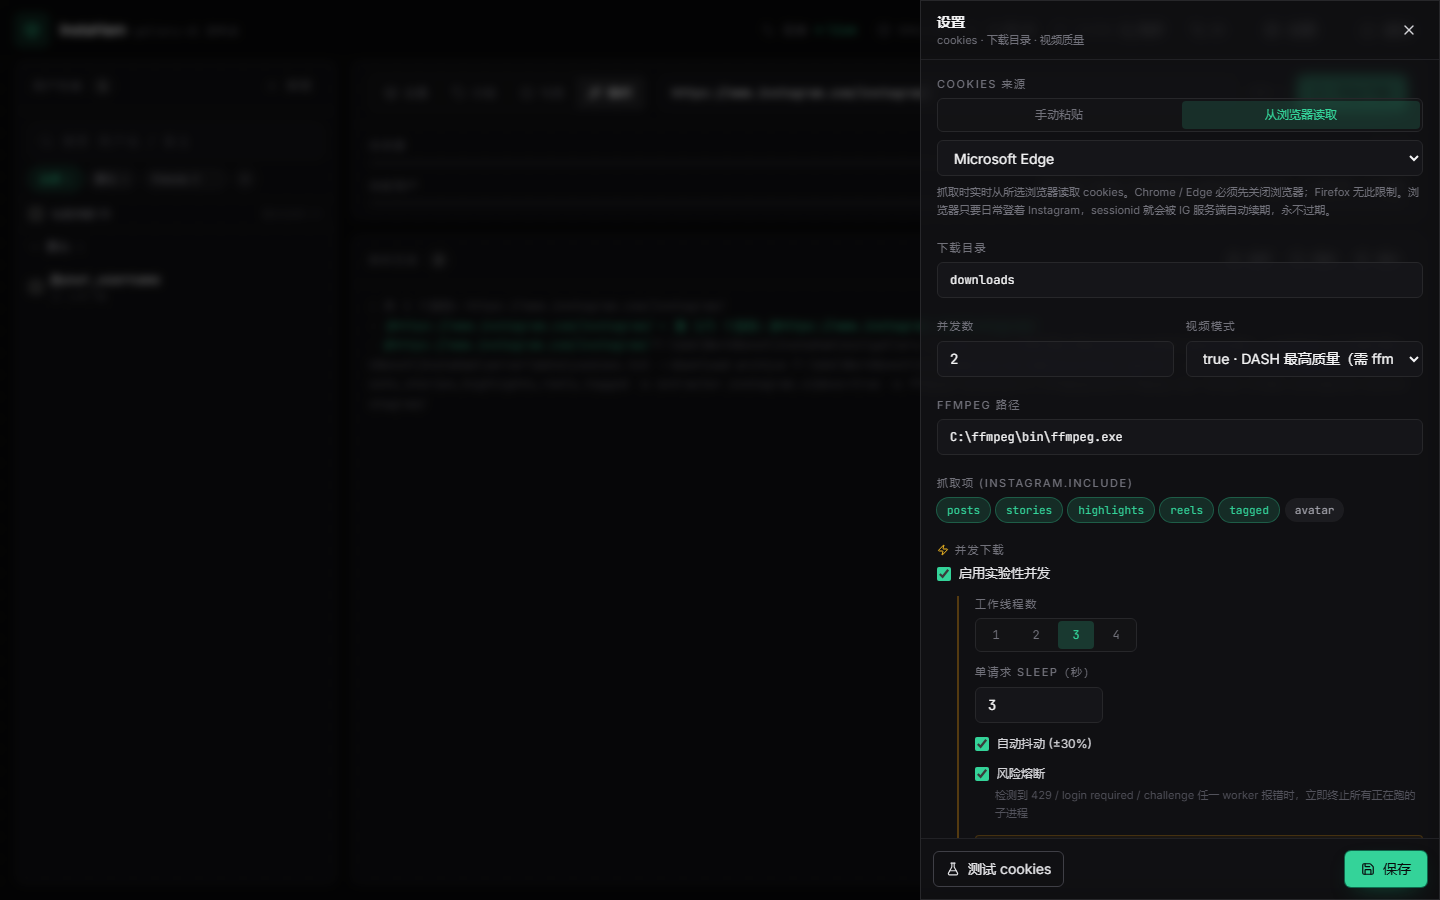
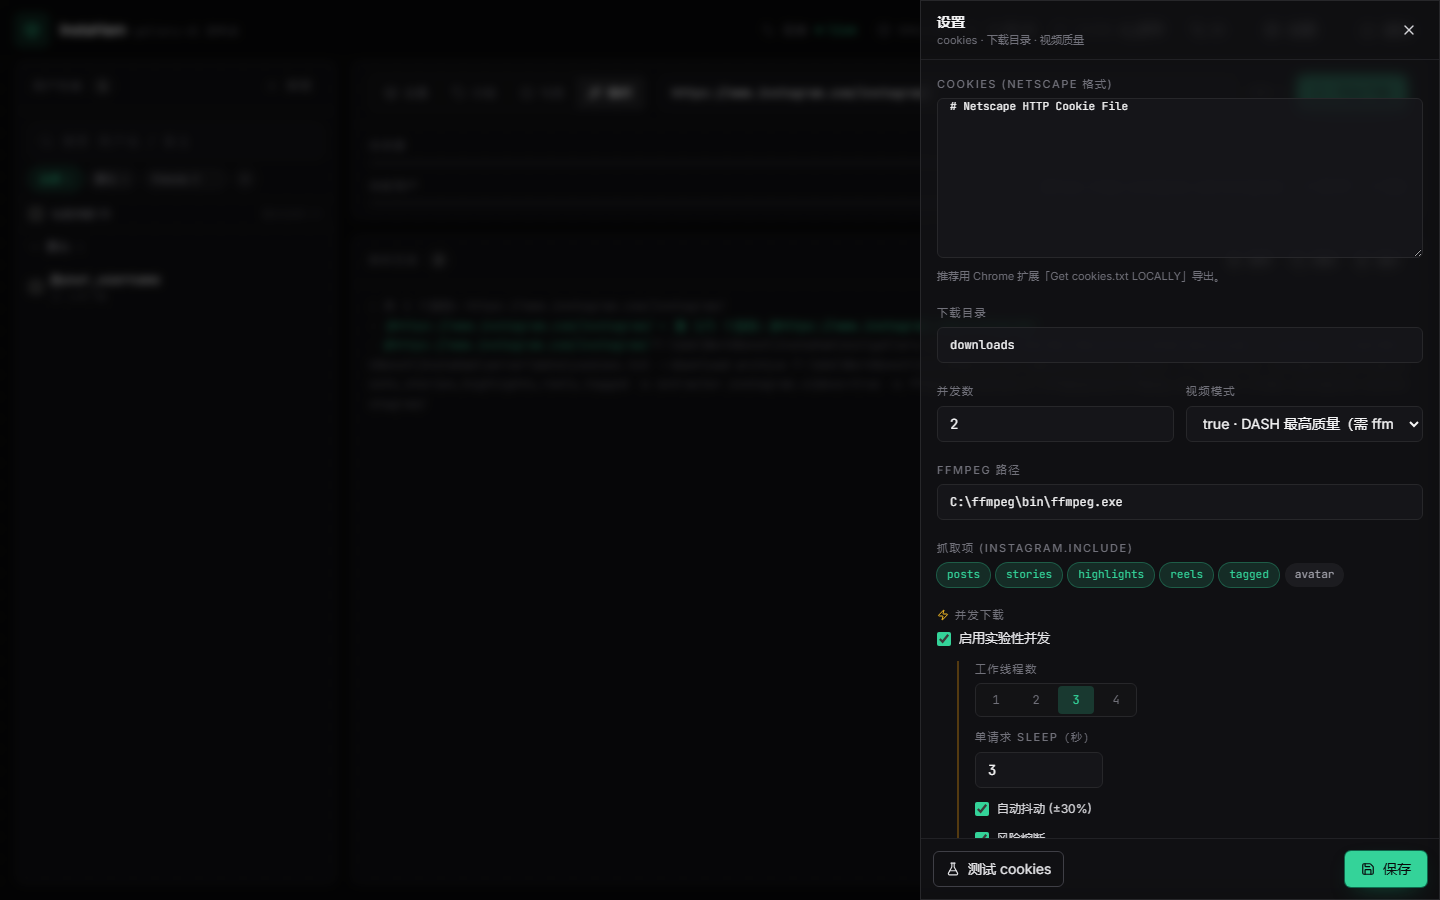
feat(ui): hide cookies-from-browser entry; backend logic kept
The Settings drawer no longer exposes the "Cookies source" segmented
control or the browser dropdown. The cookies textarea is the only
visible path for users.

Backend code stays intact:
- /api/system/browser-status remains usable
- /api/system/recent-events remains usable
- gallery-dl runner still accepts cookies_source = browser
- BrowserCookieGate.tsx and detectBrowser.ts kept as dead code in the
  bundle (no callers, but cheap to leave for future re-enable)

ConfigDrawer.save() now hard-codes cookies_source = 'manual' so any
existing browser-mode config gets normalized on the next save.

Smoke screenshot script also backs up + dummies cookies.txt before
each run (was previously avoided by switching to browser mode in the
UI; now that switch is gone).

diff --git a/web/src/components/ConfigDrawer.tsx b/web/src/components/ConfigDrawer.tsx
@@ -7,16 +7,6 @@ import { api, type Config } from '../lib/api';
 import { useT } from '../lib/i18n';
 import { cn } from '../lib/cn';
 
-const BROWSERS = [
-  { id: 'edge', label: 'Microsoft Edge' },
-  { id: 'chrome', label: 'Google Chrome' },
-  { id: 'firefox', label: 'Firefox' },
-  { id: 'brave', label: 'Brave' },
-  { id: 'vivaldi', label: 'Vivaldi' },
-  { id: 'opera', label: 'Opera' },
-  { id: 'chromium', label: 'Chromium' },
-];
-
 export function ConfigDrawer() {
   const open = useStore((s) => s.drawerOpen);
   const setOpen = useStore((s) => s.setDrawerOpen);
@@ -48,7 +38,8 @@ export function ConfigDrawer() {
         videos_mode: cfg.videos_mode,
         ffmpeg_location: cfg.ffmpeg_location,
         include: cfg.include,
-        cookies_source: cfg.cookies_source,
+        // cookies-from-browser 入口已从 UI 移除；强制 manual，保证保存后下载能直接走文件
+        cookies_source: 'manual',
         cookies_browser: cfg.cookies_browser,
         parallel_enabled: cfg.parallel_enabled,
         parallel_workers: cfg.parallel_workers,
@@ -119,48 +110,17 @@ export function ConfigDrawer() {
             </div>
           ) : (
             <>
-              {/* Cookies 来源切换 */}
-              <Field label={t('cfg.cookieSource')}>
-                <div className="flex gap-1 p-0.5 rounded-md border border-zinc-800 bg-zinc-900/40 mb-2">
-                  <SrcBtn
-                    active={cfg.cookies_source === 'manual'}
-                    onClick={() => setCfg({ ...cfg, cookies_source: 'manual' })}
-                  >
-                    {t('cfg.cookieSrcManual')}
-                  </SrcBtn>
-                  <SrcBtn
-                    active={cfg.cookies_source === 'browser'}
-                    onClick={() => setCfg({ ...cfg, cookies_source: 'browser' })}
-                  >
-                    {t('cfg.cookieSrcBrowser')}
-                  </SrcBtn>
-                </div>
-
-                {cfg.cookies_source === 'manual' ? (
-                  <>
-                    <textarea
-                      value={cookies}
-                      onChange={(e) => setCookies(e.target.value)}
-                      rows={8}
-                      className="input min-h-[160px] font-mono text-[11px] leading-snug"
-                      placeholder={t('cfg.cookiesPlaceholder')}
-                    />
-                    <div className="text-[11px] text-zinc-500 mt-1">{t('cfg.cookiesHint')}</div>
-                  </>
-                ) : (
-                  <div className="space-y-2">
-                    <select
-                      className="input"
-                      value={cfg.cookies_browser}
-                      onChange={(e) => setCfg({ ...cfg, cookies_browser: e.target.value })}
-                    >
-                      {BROWSERS.map((b) => (
-                        <option key={b.id} value={b.id}>{b.label}</option>
-                      ))}
-                    </select>
-                    <div className="text-[11px] text-zinc-500 leading-relaxed">{t('cfg.browserHint')}</div>
-                  </div>
-                )}
+              {/* Cookies (Netscape 格式) — 仅手动模式暴露给用户。
+                  cookies-from-browser 的后端代码仍保留，但此处不暴露入口。 */}
+              <Field label={t('cfg.cookies')}>
+                <textarea
+                  value={cookies}
+                  onChange={(e) => setCookies(e.target.value)}
+                  rows={8}
+                  className="input min-h-[160px] font-mono text-[11px] leading-snug"
+                  placeholder={t('cfg.cookiesPlaceholder')}
+                />
+                <div className="text-[11px] text-zinc-500 mt-1">{t('cfg.cookiesHint')}</div>
               </Field>
 
               <Field label={t('cfg.dir')}>
@@ -367,31 +327,6 @@ export function ConfigDrawer() {
         </div>
       </aside>
     </>
-  );
-}
-
-function SrcBtn({
-  active,
-  onClick,
-  children,
-}: {
-  active: boolean;
-  onClick: () => void;
-  children: React.ReactNode;
-}) {
-  return (
-    <button
-      type="button"
-      onClick={onClick}
-      className={cn(
-        'flex-1 px-3 h-7 rounded text-[12px] transition-colors',
-        active
-          ? 'bg-accent/15 text-accent'
-          : 'text-zinc-500 hover:text-zinc-200',
-      )}
-    >
-      {children}
-    </button>
   );
 }
 

diff --git a/web/src/components/TaskPanel.tsx b/web/src/components/TaskPanel.tsx
@@ -5,8 +5,11 @@ import { openDownloadWs, api, type DownloadRequest } from '../lib/api';
 import { useT, displayGroupName } from '../lib/i18n';
 import { ProgressBars } from './ProgressBars';
 import { LogStream } from './LogStream';
-import { BrowserCookieGate } from './BrowserCookieGate';
 import { cn } from '../lib/cn';
+
+// 注：BrowserCookieGate / detectBrowser / cookies-from-browser 后端逻辑保留，
+// 但本组件不再触发 gate，因为 ConfigDrawer 已移除 cookies source 切换器，
+// cookies_source 永远是 'manual'。
 
 export function TaskPanel() {
   const mode = useStore((s) => s.mode);
@@ -25,9 +28,6 @@ export function TaskPanel() {
 
   const [adhocText, setAdhocText] = useState('');
   const [groupChoice, setGroupChoice] = useState(activeGroup !== 'all' ? activeGroup : groups[0] ?? '默认');
-  const [pendingReq, setPendingReq] = useState<DownloadRequest | null>(null);
-  const [gateBrowser, setGateBrowser] = useState<string | null>(null);
-  const [postStartHint, setPostStartHint] = useState(false);
 
   // mount 时拉一次 server 缓存的事件，重连后能看到关浏览器期间的进度
   const hydrateLogs = useStore((s) => s.hydrateLogs);
@@ -46,32 +46,15 @@ export function TaskPanel() {
       ? selected.size
       : adhocText.split(/\s+/).filter(Boolean).length;
 
-  async function start() {
+  function start() {
     if (running) return;
     const req: DownloadRequest = { mode };
     if (mode === 'selected') req.users = Array.from(selected);
     if (mode === 'group') req.group = groupChoice;
     if (mode === 'adhoc') req.urls = adhocText.split(/\s+/).filter(Boolean);
 
-    // 如果 cookies 来源是浏览器 → 先过 BrowserCookieGate
-    try {
-      const cfg = await api.getConfig();
-      if (cfg.cookies_source === 'browser') {
-        setPendingReq(req);
-        setGateBrowser(cfg.cookies_browser);
-        return; // 等 gate resolve
-      }
-    } catch {
-      // 配置拉失败兜底直接启动
-    }
-
-    actuallyStart(req);
-  }
-
-  function actuallyStart(req: DownloadRequest, fromSelfBrowser = false) {
     const sock = openDownloadWs(req, pushEvent, finishRun);
     startRun(sock);
-    if (fromSelfBrowser) setPostStartHint(true);
   }
 
   function stop() {
@@ -81,7 +64,6 @@ export function TaskPanel() {
 
   return (
     <section className="flex flex-col min-h-0 gap-4">
-      {/* 模式 + 主按钮 */}
       <div className="panel">
         <div className="px-4 py-3 flex items-center gap-3">
           <div className="flex rounded-md border border-zinc-800 p-0.5 bg-zinc-900/40">
@@ -128,54 +110,8 @@ export function TaskPanel() {
       </div>
 
       <LogStream />
-
-      {gateBrowser && (
-        <BrowserCookieGate
-          browser={gateBrowser}
-          onResolve={(proceed) => {
-            const isSelfBrowser = isCurrentBrowser(gateBrowser);
-            setGateBrowser(null);
-            if (proceed && pendingReq) {
-              actuallyStart(pendingReq, isSelfBrowser);
-            }
-            setPendingReq(null);
-          }}
-        />
-      )}
-
-      {postStartHint && (
-        <div className="fixed bottom-4 right-4 z-[55] panel max-w-[400px] p-3 text-[12px] text-amber-400 bg-amber-500/5 border-amber-500/30 animate-fade-in">
-          <div className="flex items-start gap-2">
-            <span className="text-amber-400">⚠</span>
-            <div className="flex-1 leading-relaxed">{t('gate.startedHint')}</div>
-            <button
-              className="text-amber-400 opacity-60 hover:opacity-100"
-              onClick={() => setPostStartHint(false)}
-            >
-              ✕
-            </button>
-          </div>
-        </div>
-      )}
     </section>
   );
-}
-
-function isCurrentBrowser(browser: string): boolean {
-  if (typeof navigator === 'undefined') return false;
-  const ua = navigator.userAgent;
-  const tests: Record<string, RegExp> = {
-    edge: /Edg\//i,
-    firefox: /Firefox\//i,
-    opera: /OPR\/|Opera\//i,
-    vivaldi: /Vivaldi\//i,
-    // chrome 必须排除 Edg / OPR / Vivaldi
-    chrome: /Chrome\//i,
-  };
-  if (browser === 'chrome') {
-    return /Chrome\//i.test(ua) && !/Edg\/|OPR\/|Vivaldi\//i.test(ua);
-  }
-  return tests[browser]?.test(ua) ?? false;
 }
 
 function ModeBtn({

diff --git a/_smoke/smoke_locale_shots.py b/_smoke/smoke_locale_shots.py
@@ -2,7 +2,7 @@
 
 为保护用户隐私：
 - 截图前临时把 server/data/users.json 替换成 dummy（仅含 1 个占位用户）
-- settings 截图时切到「从浏览器读取」模式，避免 cookies textarea 显示真实 cookies
+- 截图前把 server/data/cookies.txt 替换成空 dummy（settings textarea 显示空）
 - 截图后立即恢复
 """
 from __future__ import annotations
@@ -20,6 +20,8 @@ USERS_FILE = ROOT / "server" / "data" / "users.json"
 USERS_BACKUP = Path(__file__).parent / ".users_backup.json"
 CONFIG_FILE = ROOT / "server" / "data" / "config.json"
 CONFIG_BACKUP = Path(__file__).parent / ".config_backup.json"
+COOKIES_FILE = ROOT / "server" / "data" / "cookies.txt"
+COOKIES_BACKUP = Path(__file__).parent / ".cookies_backup.txt"
 
 DEMO_USERS = {
     "groups": ["默认", "friends"],
@@ -34,6 +36,8 @@ DEMO_USERS = {
         }
     ],
 }
+
+DEMO_COOKIES = "# Netscape HTTP Cookie File\n"
 
 
 def use_demo_users() -> None:
@@ -50,8 +54,20 @@ def restore_users() -> None:
         USERS_BACKUP.unlink()
 
 
+def use_demo_cookies() -> None:
+    if COOKIES_FILE.exists():
+        shutil.copy(COOKIES_FILE, COOKIES_BACKUP)
+    COOKIES_FILE.write_text(DEMO_COOKIES, encoding="utf-8")
+
+
+def restore_cookies() -> None:
+    if COOKIES_BACKUP.exists():
+        shutil.copy(COOKIES_BACKUP, COOKIES_FILE)
+        COOKIES_BACKUP.unlink()
+
+
 def force_manual_cookies() -> None:
-    """截图时强制 cookies_source=manual，避免 home 截图触发 BrowserCookieGate。"""
+    """截图时强制 cookies_source=manual + parallel_enabled=False（默认状态）。"""
     if CONFIG_FILE.exists():
         shutil.copy(CONFIG_FILE, CONFIG_BACKUP)
         cfg = json.loads(CONFIG_FILE.read_text(encoding="utf-8"))
@@ -78,6 +94,7 @@ def shoot(locale: str) -> None:
         )
     except Exception:
         pass
+
 
     with sync_playwright() as p:
         b = p.chromium.launch(headless=True)
@@ -111,14 +128,10 @@ def shoot(locale: str) -> None:
         except Exception:
             pass
 
-        # 3) settings 抽屉 — 切到「从浏览器读取」+ 启用并发，展示新功能
+        # 3) settings 抽屉 — 启用并发演示
         settings_label = "设置" if locale == "zh" else "Settings"
         page.locator(f"button:has-text('{settings_label}')").click()
         page.wait_for_timeout(500)
-
-        browser_label = "从浏览器读取" if locale == "zh" else "Read from browser"
-        page.locator(f"button:has-text('{browser_label}')").click()
-        page.wait_for_timeout(200)
 
         enable_label = "启用实验性并发" if locale == "zh" else "Enable experimental parallelism"
         page.locator(f"label:has-text('{enable_label}') input").click()
@@ -135,14 +148,16 @@ def shoot(locale: str) -> None:
 def main() -> int:
     OUT.mkdir(parents=True, exist_ok=True)
     use_demo_users()
+    use_demo_cookies()
     force_manual_cookies()
     try:
         for loc in ("zh", "en"):
             shoot(loc)
     finally:
         restore_users()
+        restore_cookies()
         restore_config()
-        print("  ✓ 已恢复 users.json / config.json")
+        print("  ✓ 已恢复 users.json / cookies.txt / config.json")
     return 0
 
 

diff --git a/README.md b/README.md
@@ -39,9 +39,9 @@ Built on top of [`gallery-dl`](https://codeberg.org/mikf/gallery-dl), wrapped in
 
 <sub><em>Active download — dual progress bars, streaming log, indeterminate sweep across 0–100%.</em></sub>
 
-<img src="docs/screenshots/en/04-settings.png" alt="Settings drawer with parallel + browser-cookies" width="900"/>
+<img src="docs/screenshots/en/04-settings.png" alt="Settings drawer" width="900"/>
 
-<sub><em>Settings — read cookies straight from your browser (no manual export), opt-in experimental parallel downloads with circuit breaker.</em></sub>
+<sub><em>Settings — paste cookies, tweak download dir / video mode / include subset, opt-in experimental parallel downloads with circuit breaker.</em></sub>
 
 </div>
 
@@ -51,7 +51,7 @@ Built on top of [`gallery-dl`](https://codeberg.org/mikf/gallery-dl), wrapped in
 - **Dual progress bars** — overall (`N / M` users) + current target (file count + skip count).
 - **Four download modes** — All, By group, Selected (checkbox bulk), Ad-hoc (paste any IG URL — no commit to user list).
 - **Group management** — collapsible left pane, search, inline add/delete, last-download timestamp per user.
-- **Cookies, two ways** — paste a Netscape `cookies.txt`, **or** read straight from your browser (Edge / Chrome / Firefox / Brave / Vivaldi / Opera / Chromium). Browser mode auto-renews via your normal IG session — never expires.
+- **Cookies drawer** — paste a Netscape-format `cookies.txt`, run a one-click sanity test against a public account before committing.
 - **Experimental parallel downloads** *(opt-in)* — 1–4 worker threads with auto sleep, jitter, and circuit breaker that kills all subprocesses on the first 429 / login required / challenge.
 - **Smart deduplication** — shared `archive.sqlite` across all targets; reruns produce skip lines, not duplicates.
 - **One-click shutdown** — `⏻ Exit` button kills the backend process from the browser.
@@ -122,8 +122,6 @@ The launcher detects whether the server is already running, starts it hidden if 
 | `videos_mode` | `true` (DASH, needs ffmpeg) · `merged` (pre-merged) · `false` (skip) | `true` |
 | `ffmpeg_location` | Absolute path to `ffmpeg.exe` | `C:\ffmpeg\bin\ffmpeg.exe` |
 | `include` | Subset of `posts / stories / highlights / reels / tagged / avatar` | all five |
-| `cookies_source` | `manual` (paste) · `browser` (live read) | `manual` |
-| `cookies_browser` | Browser to read cookies from when `source=browser` | `edge` |
 | `parallel_enabled` | Opt-in to N concurrent gallery-dl subprocesses | `false` |
 | `parallel_workers` | Number of concurrent workers (1–4) | `2` |
 | `parallel_sleep_seconds` | `extractor.instagram.sleep-request` injected per worker | `2.0` |

diff --git a/README.zh-CN.md b/README.zh-CN.md
@@ -39,9 +39,9 @@
 
 <sub><em>下载进行中 —— 双层进度条，流式日志，不定进度条横扫 0–100%。</em></sub>
 
-<img src="docs/screenshots/zh/04-settings.png" alt="设置抽屉：浏览器 cookies + 并发" width="900"/>
+<img src="docs/screenshots/zh/04-settings.png" alt="设置抽屉" width="900"/>
 
-<sub><em>设置 —— 直接从浏览器读取 cookies（无需手动导出），可选实验性并发下载，自带风险熔断。</em></sub>
+<sub><em>设置 —— 粘贴 cookies，调下载目录 / 视频模式 / 抓取项，可选实验性并发下载，自带风险熔断。</em></sub>
 
 </div>
 
@@ -51,7 +51,7 @@
 - **双层进度条** —— 总进度（`N / M` 个用户）+ 当前用户进度（新文件数 + 跳过数）。
 - **四种下载模式** —— 全量、按分组、仅勾选、临时（粘贴任意 IG URL，不入用户列表）。
 - **分组管理** —— 左栏可折叠、搜索、行内增删、显示每个用户上次下载时间。
-- **Cookies 两种来源** —— 手动粘贴 Netscape 文件，**或** 直接从浏览器读取（Edge / Chrome / Firefox / Brave / Vivaldi / Opera / Chromium）。浏览器模式跟着你日常 IG 登录态自动续期，**永不过期**。
+- **Cookie 抽屉** —— Netscape 格式 textarea，可在保存前用公开账号验证 cookies 是否有效。
 - **实验性并发下载** *（默认关闭）* —— 1–4 个 worker 线程，配套 sleep 自动联动、抖动、风险熔断（任一 worker 命中 429 / login required / challenge 立即停所有子进程）。
 - **智能去重** —— 所有目标共享 `archive.sqlite`；重跑只产 skip 行，绝不重复下载。
 - **一键退出** —— 顶栏 `⏻ 退出` 按钮直接终止后端进程。
